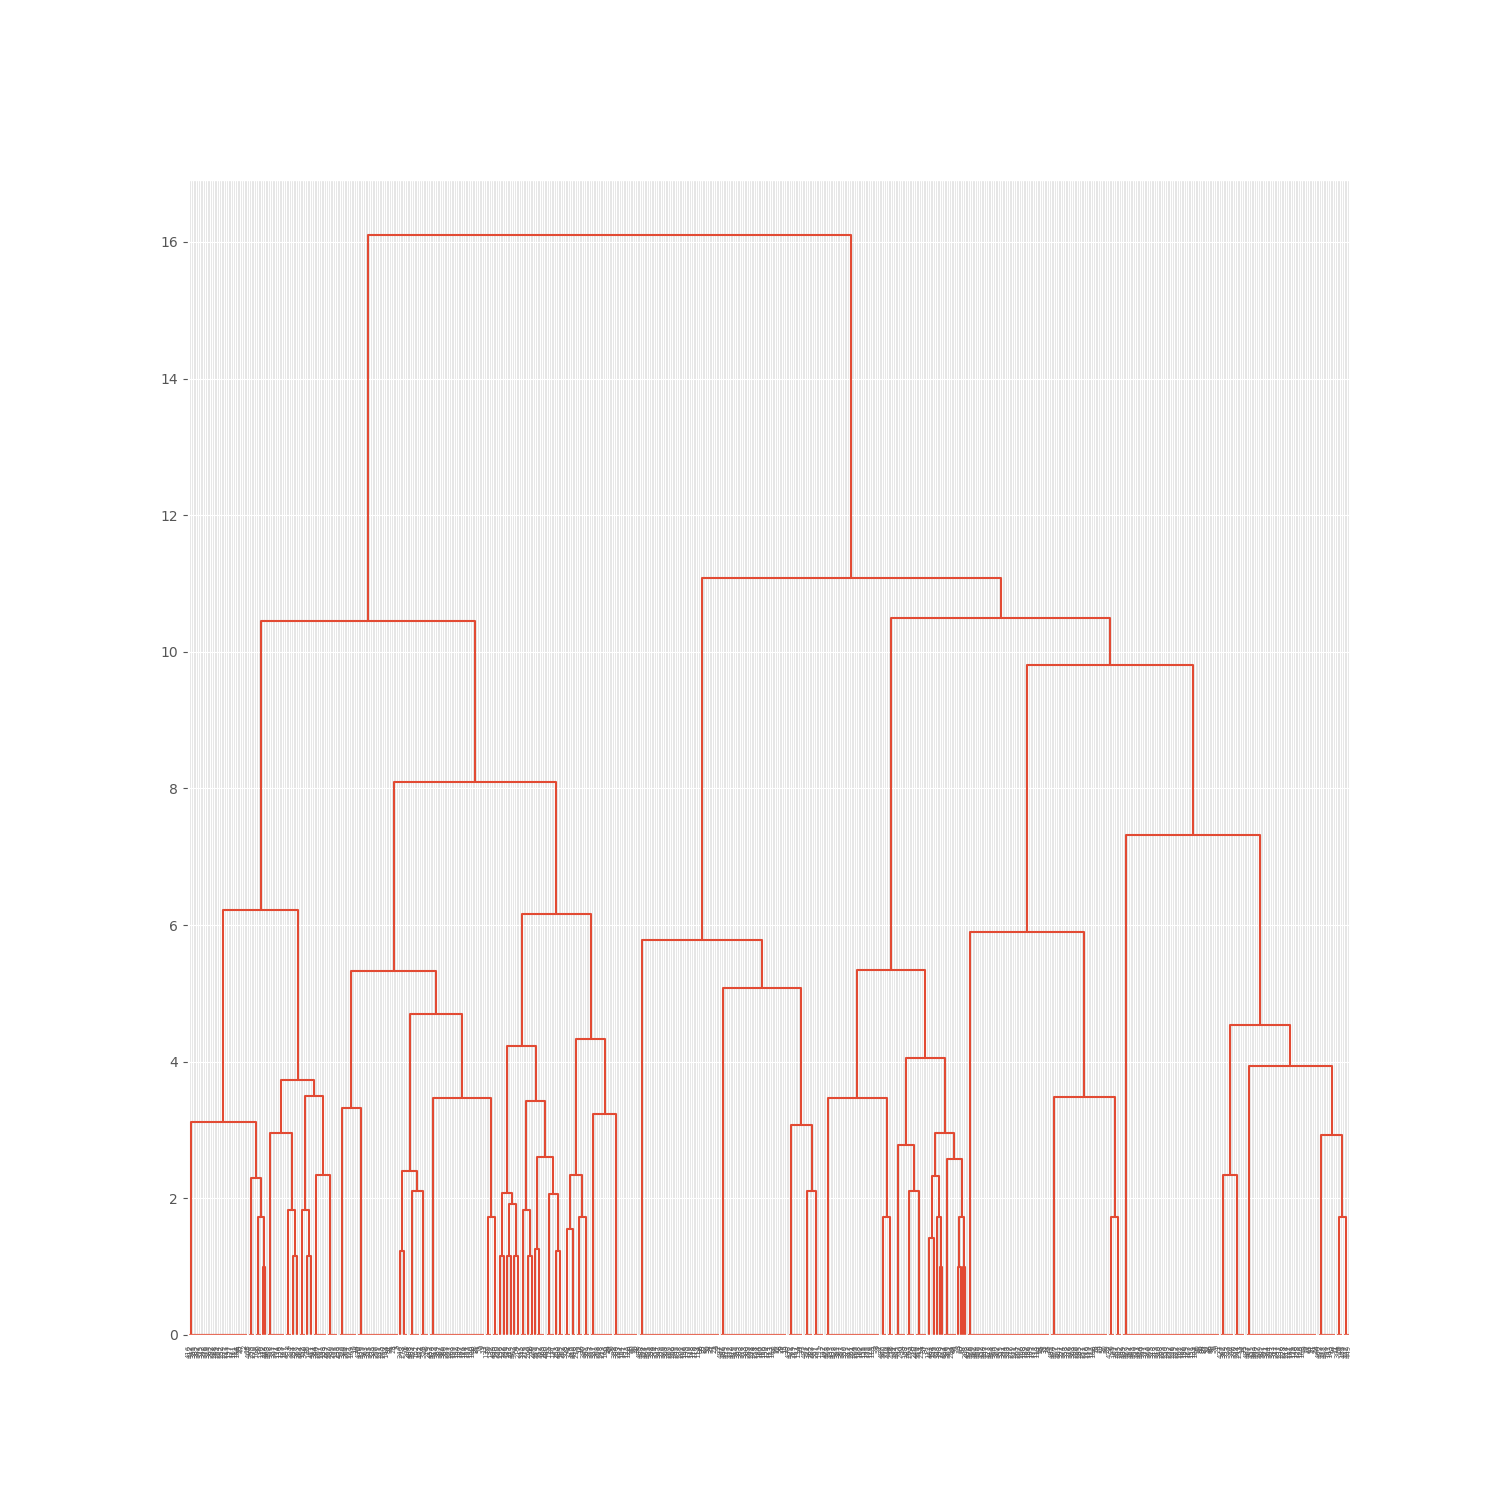
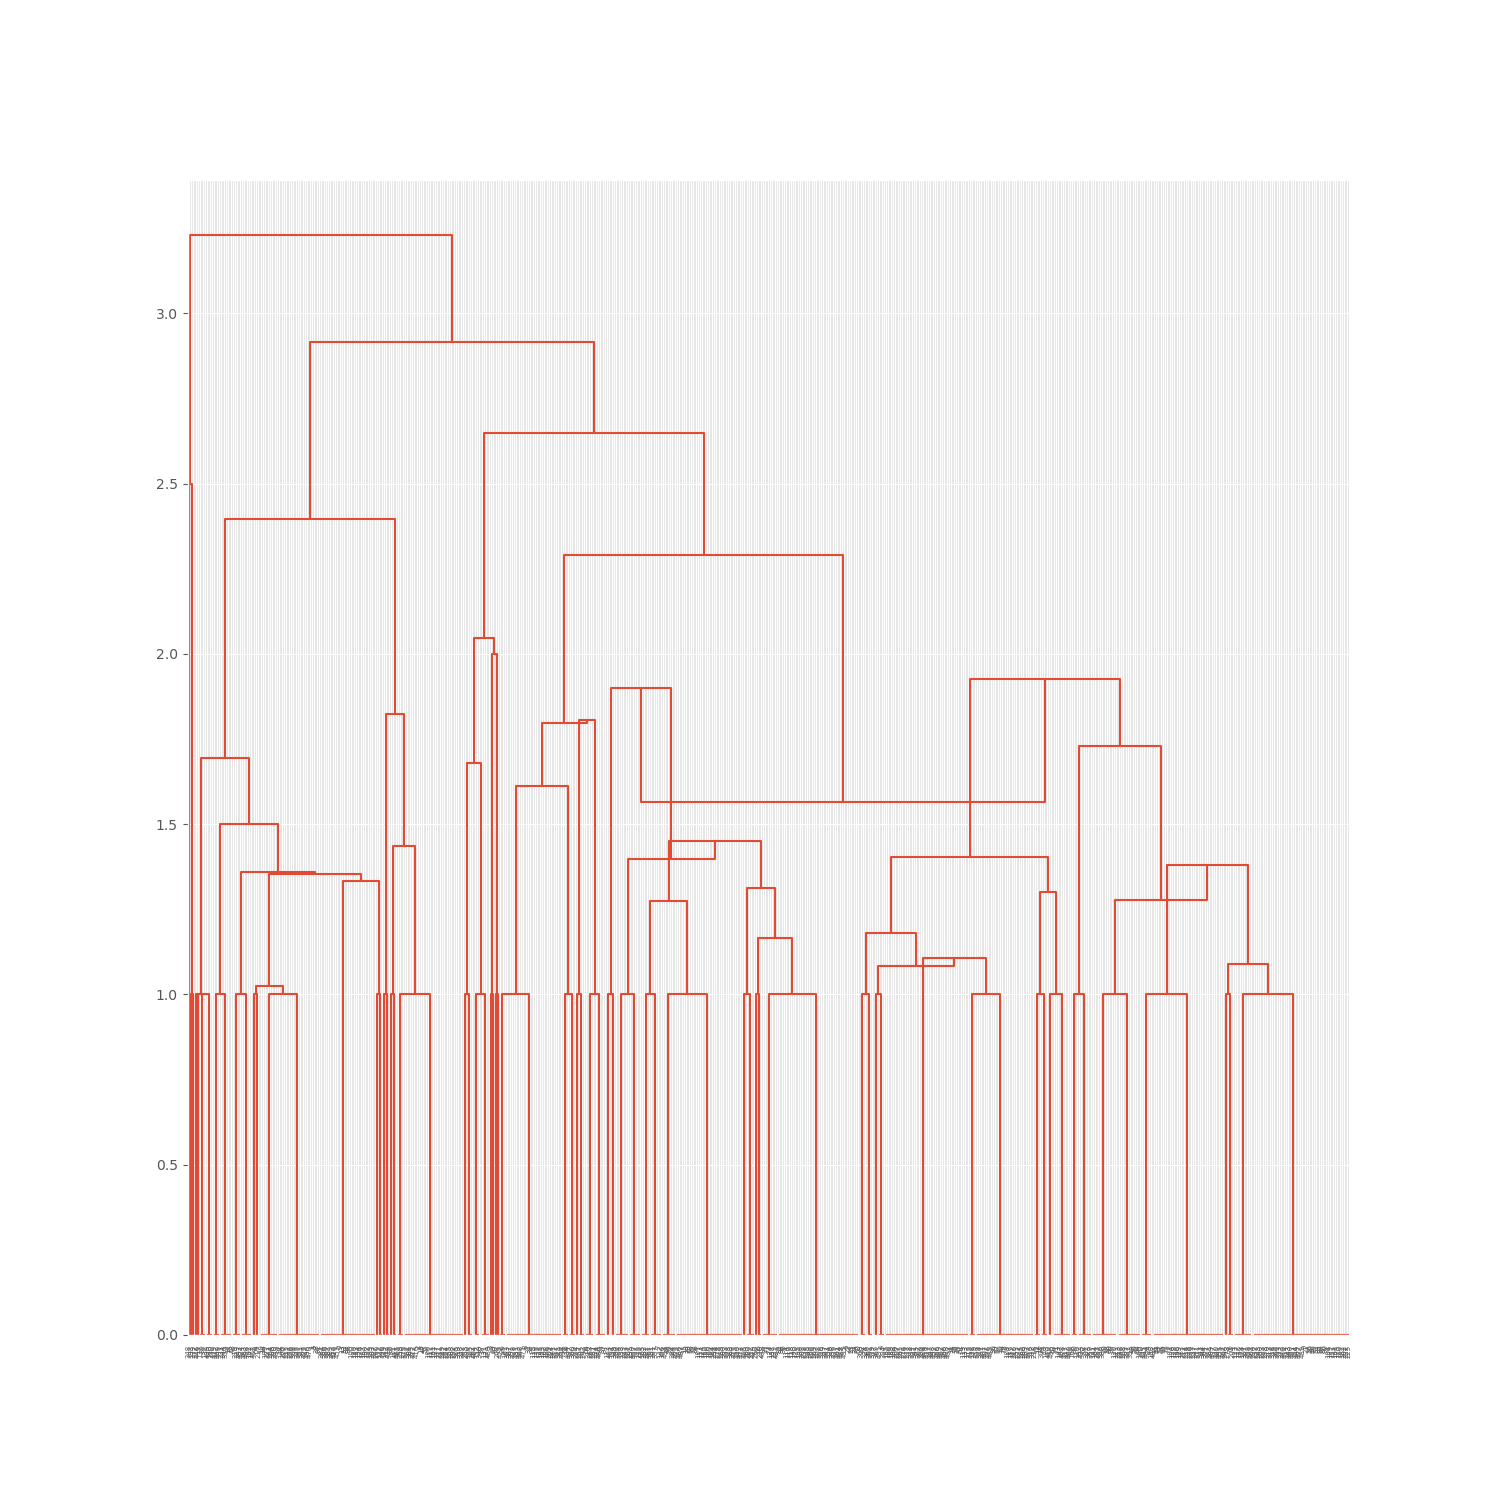
data_analysis

diff --git a/hierarchial_clusterization/linkage_centroid_manhattan.py b/hierarchial_clusterization/linkage_centroid_manhattan.py
@@ -1,4 +1,6 @@
 from preprocessing import *
+from rb_tree import RedBlackTree
+from header import *
 
 class triple:
     def __init__(self, left_c, right_c, d):
@@ -61,8 +63,6 @@ def linkage(df):
 
 if __name__ == '__main__':
     link = linkage(df)
-    savetxt('link.csv', link, delimiter=',')
-    #print(link)
-    #_is_link(df.shape[0], link)
+    np.savetxt('hierarchial_clusterization/link.csv', link, delimiter=',')
 
 

diff --git a/hierarchial_clusterization/cluster.py b/hierarchial_clusterization/cluster.py
@@ -1,8 +1,8 @@
 from preprocessing import df, Y
 from header import *
 
-link = linkage(df, 'ward', 'euclidean')
-#link = loadtxt('link.csv', delimiter=',')
+#link = linkage(df, 'ward', 'euclidean')
+link = np.loadtxt('hierarchial_clusterization/link.csv', delimiter=',')
 
 plt.figure(figsize=(15,15))
 dendrogram(link, color_threshold=-1)

diff --git a/hierarchial_clusterization/header.py b/hierarchial_clusterization/header.py
@@ -4,4 +4,6 @@ import pandas as pd
 import matplotlib
 from scipy.cluster.hierarchy import linkage, dendrogram, fcluster
 from sklearn.metrics import accuracy_score
+from scipy.spatial.distance import cityblock
+
 matplotlib.style.use('ggplot')
